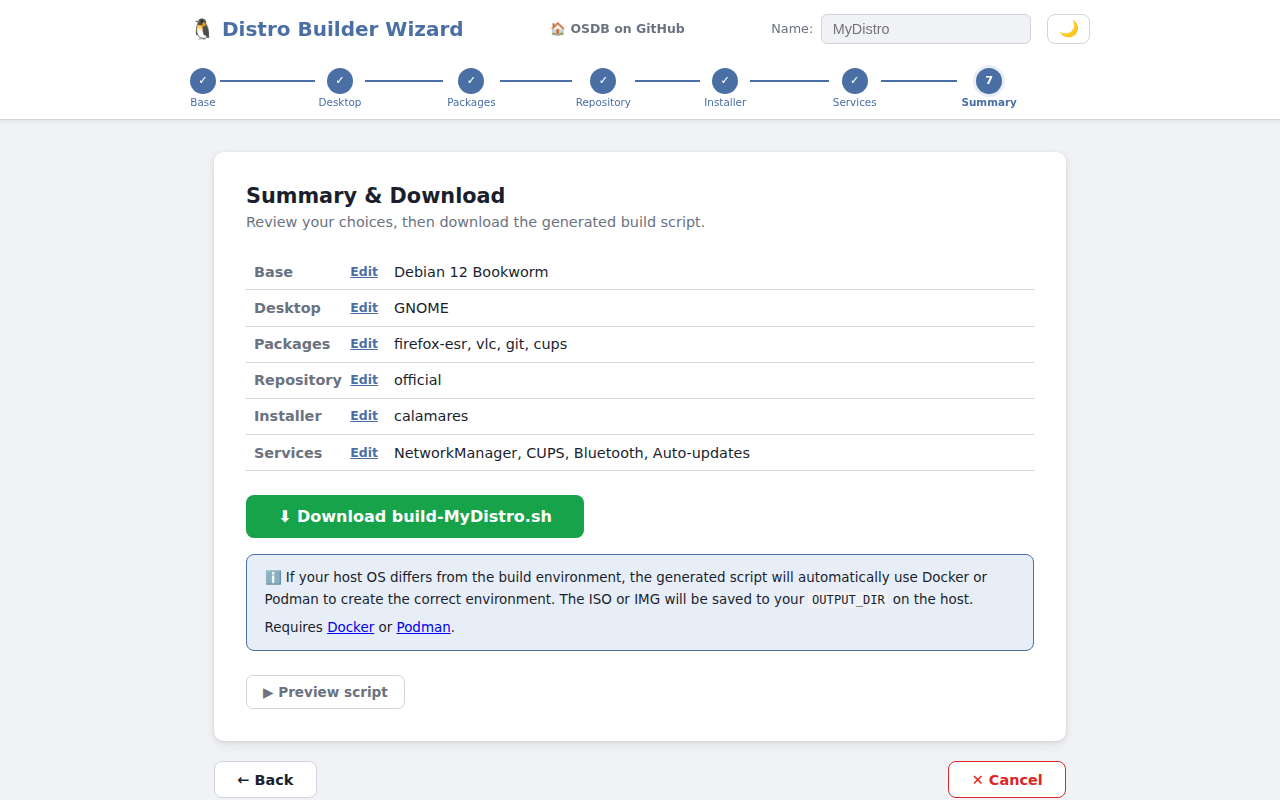
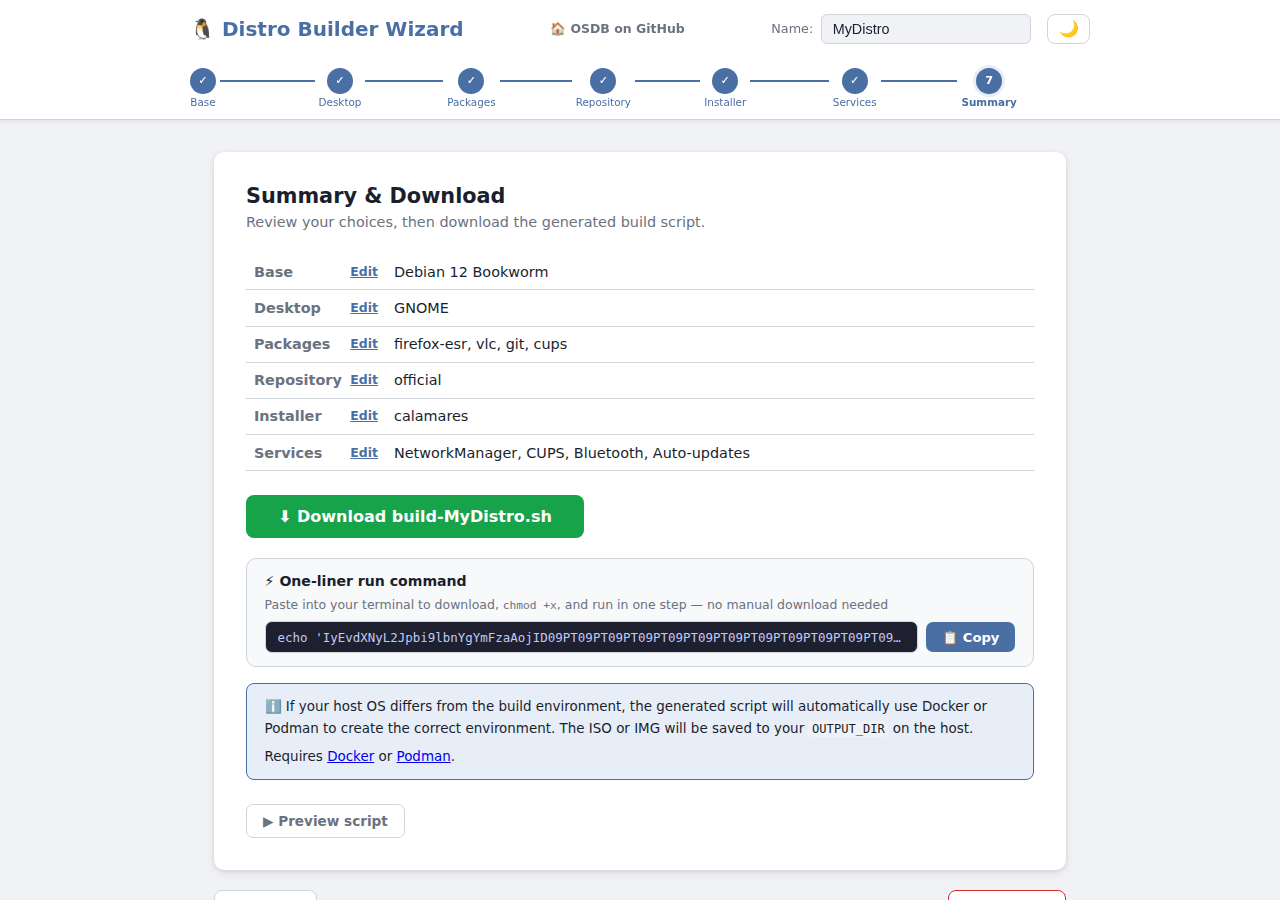
feat: add one-liner run command panel to summary page with copy button
Agent-Logs-Url: https://github.com/FugginOld/OSDB/sessions/3f01e078-7278-45fb-b879-49f57fc6d23e

diff --git a/docs/wizard.js b/docs/wizard.js
@@ -997,6 +997,17 @@ function renderStepSummary() {
     <div style="margin-top:1.5rem; display:flex; gap:1rem; flex-wrap:wrap; align-items:center;">
       <button class="btn-download" id="btn-download">⬇ Download build-${esc(dlSafeName)}.sh</button>
     </div>
+    <div class="curl-cmd-wrap">
+      <div class="curl-cmd-header">
+        <span class="curl-cmd-title">⚡ One-liner run command</span>
+        <span class="curl-cmd-hint">Paste into your terminal to download, <code>chmod +x</code>, and run in one step — no manual download needed</span>
+      </div>
+      <div class="curl-cmd-row">
+        <input type="text" id="curl-cmd-field" class="curl-cmd-field" readonly
+               placeholder="Generating command…" aria-label="One-liner run command" />
+        <button class="btn-copy-cmd" id="btn-copy-cmd" aria-label="Copy run command">📋 Copy</button>
+      </div>
+    </div>
     <div class="info-banner">
       <p>ℹ If your host OS differs from the build environment, the generated script will automatically use Docker or Podman to create the correct environment. The ISO or IMG will be saved to your <code>OUTPUT_DIR</code> on the host.</p>
       <p>Requires <a href="https://docs.docker.com/engine/install/" target="_blank" rel="noopener">Docker</a> or <a href="https://podman.io/docs/installation" target="_blank" rel="noopener">Podman</a>.</p>
@@ -1207,6 +1218,34 @@ function attachStepListeners(stepId) {
         const dlBtn = document.getElementById('btn-download');
         if (dlBtn) {
           dlBtn.addEventListener('click', downloadScript);
+        }
+
+        // Populate and wire the one-liner run command field
+        const cmdField = document.getElementById('curl-cmd-field');
+        if (cmdField) {
+          cmdField.value = buildRunCommand();
+        }
+
+        const copyBtn = document.getElementById('btn-copy-cmd');
+        if (copyBtn && cmdField) {
+          copyBtn.addEventListener('click', () => {
+            if (!cmdField.value) return;
+            const doCopy = () => {
+              copyBtn.textContent = '✓ Copied!';
+              setTimeout(() => { copyBtn.textContent = '📋 Copy'; }, 2000);
+            };
+            if (navigator.clipboard && navigator.clipboard.writeText) {
+              navigator.clipboard.writeText(cmdField.value).then(doCopy).catch(() => {
+                cmdField.select();
+                document.execCommand('copy');
+                doCopy();
+              });
+            } else {
+              cmdField.select();
+              document.execCommand('copy');
+              doCopy();
+            }
+          });
         }
 
         const previewBtn = document.getElementById('btn-preview');
@@ -2153,7 +2192,7 @@ sha256sum "\${OUTPUT_DIR}"/*.iso > "\${OUTPUT_DIR}/\${DISTRO_NAME}.iso.sha256" 2
 `;
 }
 
-// ── Download ──────────────────────────────────────────────────
+// ── Download / Run command ─────────────────────────────────────
 function safeScriptName() {
   return (state.distroName || 'MyDistro').replace(/[^A-Za-z0-9_-]/g, '_');
 }
@@ -2172,6 +2211,25 @@ function downloadScript() {
   setTimeout(() => URL.revokeObjectURL(url), 0);
 }
 
+// Build the base64 one-liner run command for the summary page.
+// The command mirrors the "curl | bash" idiom without requiring a hosted URL:
+//   curl -fsSL <URL> -o script.sh && chmod +x script.sh && sudo ./script.sh
+// is equivalent to:
+//   echo '<base64>' | base64 -d -o script.sh && chmod +x script.sh && sudo ./script.sh
+function buildRunCommand() {
+  const script = generateScript();
+  const safeName = safeScriptName();
+  // Encode script to base64 (handles any UTF-8 content)
+  const b64 = btoa(unescape(encodeURIComponent(script)));
+  return `echo '${b64}' | base64 -d > build-${safeName}.sh && chmod +x build-${safeName}.sh && sudo ./build-${safeName}.sh`;
+}
+
+// Update the run-command field if it is currently visible (summary step).
+function refreshRunCommand() {
+  const field = document.getElementById('curl-cmd-field');
+  if (field) field.value = buildRunCommand();
+}
+
 // ============================================================
 // INITIALISATION
 // ============================================================
@@ -2183,6 +2241,7 @@ document.addEventListener('DOMContentLoaded', () => {
     state.distroName = nameInput.value.trim() || 'MyDistro';
     const dlBtn = document.getElementById('btn-download');
     if (dlBtn) dlBtn.textContent = `⬇ Download build-${safeScriptName()}.sh`;
+    refreshRunCommand();
   });
 
   // Navigation buttons

diff --git a/docs/styles.css b/docs/styles.css
@@ -642,6 +642,85 @@ main {
   margin-top: 1.5rem;
 }
 
+/* ── Curl / one-liner run command panel ─────────────────────── */
+.curl-cmd-wrap {
+  margin-top: 1.25rem;
+  background: var(--panel-bg);
+  border: 1px solid var(--border);
+  border-radius: var(--radius);
+  padding: 0.85rem 1.1rem;
+}
+
+.curl-cmd-header {
+  display: flex;
+  flex-wrap: wrap;
+  align-items: baseline;
+  gap: 0.5rem 1rem;
+  margin-bottom: 0.6rem;
+}
+
+.curl-cmd-title {
+  font-size: 0.88rem;
+  font-weight: 700;
+  color: var(--text);
+  white-space: nowrap;
+}
+
+.curl-cmd-hint {
+  font-size: 0.78rem;
+  color: var(--text-muted);
+}
+
+.curl-cmd-hint code {
+  font-family: 'Cascadia Code', 'Fira Mono', monospace;
+  font-size: 0.9em;
+}
+
+.curl-cmd-row {
+  display: flex;
+  gap: 0.5rem;
+  align-items: center;
+}
+
+.curl-cmd-field {
+  flex: 1;
+  min-width: 0;
+  padding: 0.45rem 0.75rem;
+  font-family: 'Cascadia Code', 'Fira Mono', 'Consolas', monospace;
+  font-size: 0.78rem;
+  background: #1e2030;
+  color: #c0caf5;
+  border: 1px solid var(--border);
+  border-radius: 7px;
+  outline: none;
+  white-space: nowrap;
+  overflow: hidden;
+  text-overflow: ellipsis;
+  cursor: text;
+}
+
+.curl-cmd-field:focus {
+  border-color: var(--primary);
+}
+
+.btn-copy-cmd {
+  background: var(--primary);
+  color: #fff;
+  border: none;
+  border-radius: 7px;
+  padding: 0.45rem 1rem;
+  font-size: 0.82rem;
+  font-weight: 600;
+  cursor: pointer;
+  white-space: nowrap;
+  transition: background var(--transition);
+  flex-shrink: 0;
+}
+
+.btn-copy-cmd:hover {
+  background: var(--primary-dark);
+}
+
 .preview-toggle {
   background: none;
   border: 1px solid var(--border);

diff --git a/how-to.md b/how-to.md
@@ -1,6 +1,17 @@
 # How to Run Your Generated Build Script
 
-After using the [OSDB wizard](https://fugginold.github.io/OSDB/) to configure your custom Linux distribution, you will download a script named **`build-<DistroName>.sh`** (e.g. `build-MyDistro.sh`). This guide walks you through everything you need to do to turn that script into a bootable ISO or SD-card image.
+After using the [OSDB wizard](https://fugginold.github.io/OSDB/) to configure your custom Linux distribution, you can either:
+
+- **Download** the script (named **`build-<DistroName>.sh`**, e.g. `build-MyDistro.sh`) using the **⬇ Download** button, or  
+- **Copy the ⚡ One-liner run command** from the summary page and paste it directly into your terminal.
+
+The one-liner encodes the full script as base64 and runs it in a single step — no manual download required:
+
+```bash
+echo '<base64-encoded-script>' | base64 -d > build-MyDistro.sh && chmod +x build-MyDistro.sh && sudo ./build-MyDistro.sh
+```
+
+This guide covers everything you need to turn either approach into a bootable ISO or SD-card image.
 
 ---
 
@@ -29,6 +40,8 @@ This builder writes directly to an SD card — **no container runtime is needed*
 ---
 
 ## 2. Make the Script Executable
+
+> **Shortcut:** If you copied the **⚡ One-liner run command** from the summary page, skip this section — the command handles `chmod +x` and execution automatically.
 
 Open a terminal, navigate to where you saved the script, and grant it execute permission (replace `MyDistro` with the name you entered in the wizard):
 

diff --git a/README.md b/README.md
@@ -13,9 +13,12 @@ A self-contained, static WebUI that walks you through building a custom Linux di
 3. Select a **desktop environment** (GNOME, KDE, XFCE, headless, …)
 4. Toggle **packages** and **services**
 5. Pick a **repository type** and **installer**
-6. Review the **summary** and download your customised build script
+6. Review the **summary**, download your customised build script, and copy the **one-liner run command**
 
 The generated script is a complete, commented bash script ready to run on a matching host system.
+The **⚡ One-liner run command** on the summary page encodes the script as base64, so you can
+paste a single command into any terminal to download, `chmod +x`, and execute it in one step — no
+separate download needed.
 
 ---
 
